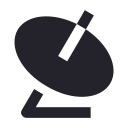
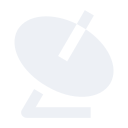
dark

diff --git a/index.html b/index.html
@@ -99,9 +99,8 @@
        margin-right: -1.9rem;
        margin-top:-0.4rem;
        border-radius: 0.7vh !important;
-      background-color: #f2f2f2;
+      background-color: #282828;
       padding:.375rem;
-      box-shadow: rgba(0,0,0, 0.301) 0px 1px 2px 0px, rgba(0,0,0, 0.15) 0px 2px 6px 2px;
                         }
    
    </style>

diff --git a/style.css b/style.css
@@ -309,7 +309,7 @@ p {
 }
 
 .navbar.navbar-expand-lg.fixed-top.active {
-	box-shadow: 0 0.5rem 0.5rem -0.5rem rgb(150, 150, 150) !important
+	box-shadow: 0 0.5rem 0.5rem -0.5rem rgb(0 0 0 / 20%) !important
 }
 
 ::-webkit-scrollbar-corner {
